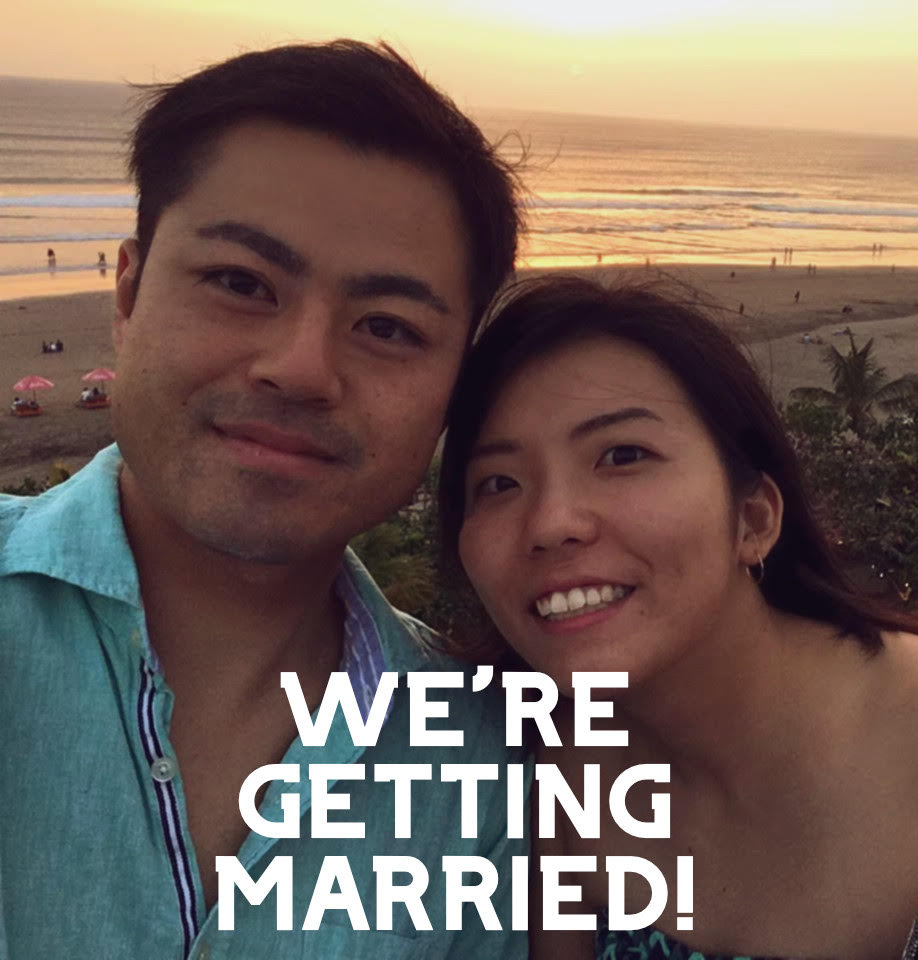
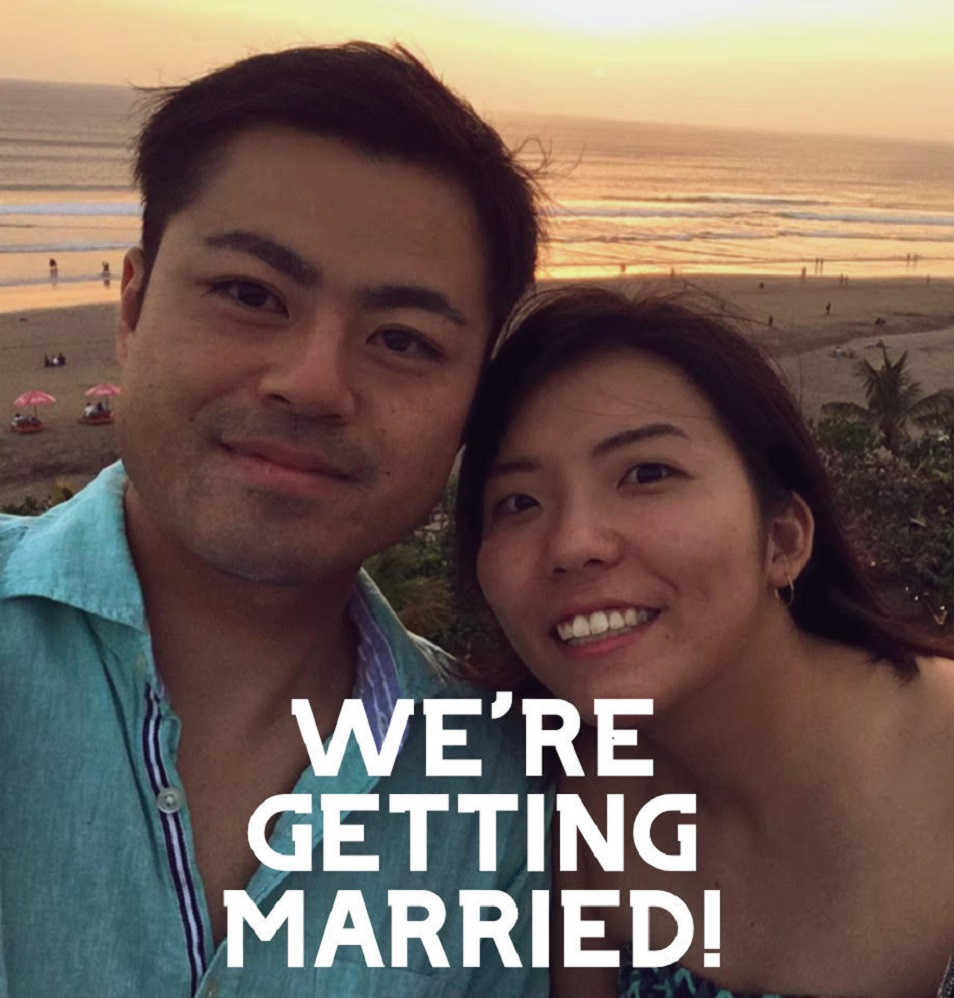
画像を中央表示

diff --git a/join.html b/join.html
@@ -11,7 +11,9 @@ font-family: 'YuGothic'
     <!-- <style> resizeimage { width: 100%; }</style> -->
   </head>
   <body bgcolor="#F5F9DB" text="#201040">
+    <div style="text-align:center;">
      <img src="sunset2.jpg" alt='sunset2' />
+    </div>
 <br><hr><br>
 <H1>GREETINGS</H1>
 <br><hr><br>
